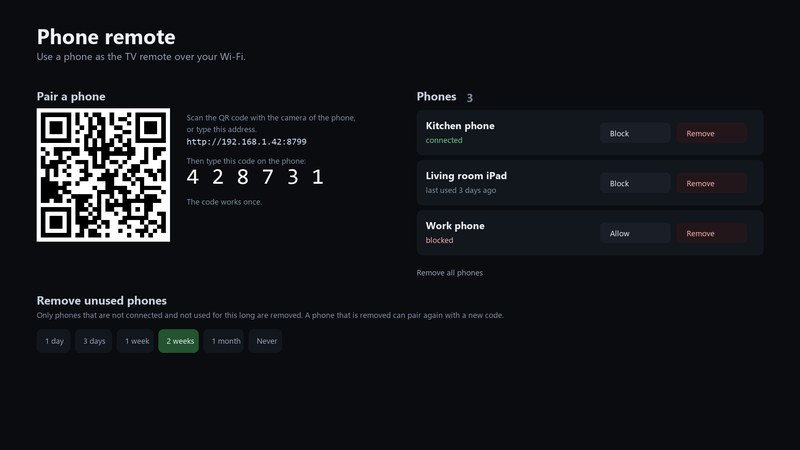
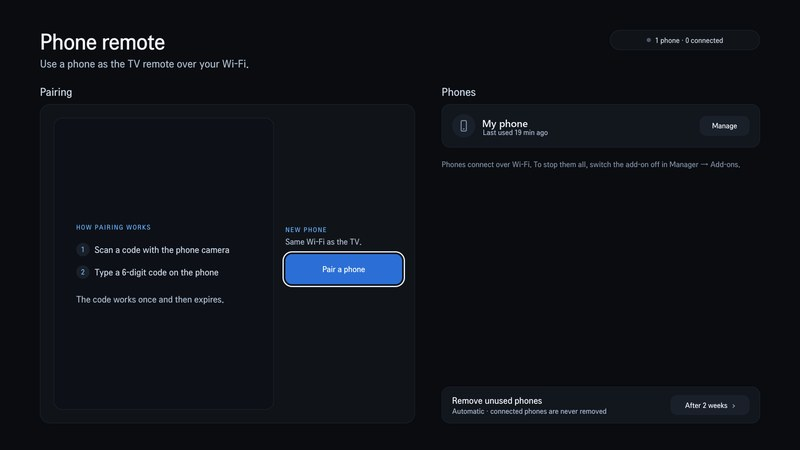
Phone remote: the add-on's picture shows the TV page as it is now; docs and a test cleaned up
- preview.jpg (the picture on the Add-ons screen) is the current TV page, with the
  setting row for unused phones, taken on a TV; the phone's name and address are masked.
- docs/phone-remote.md: the choice is called Never in the picker.
- devicename.test.js uses documentation addresses (192.0.2.0/24, 02:00:5E) instead
  of a real network's.

diff --git a/tools/test/devicename.test.js b/tools/test/devicename.test.js
@@ -22,7 +22,7 @@ run(async () => {
     'nothing, wlan0, localhost and a one-letter name are not names'
   );
   ok(
-    c('02:D5:D6:2B:08:32') === '' && c('02-d5-d6-2b-08-32') === '' && c('10.100.102.28') === '',
+    c('02:00:5E:10:00:01') === '' && c('02-00-5e-10-00-01') === '' && c('192.0.2.28') === '',
     'a MAC address and an IP address are not names'
   );
   ok(

diff --git a/docs/phone-remote.md b/docs/phone-remote.md
@@ -126,7 +126,7 @@ is accurate to about a minute.
 
 **Remove unused phones** is a security setting: a phone that was lost, sold or forgotten would otherwise be able to control the TV for ever. The
 service checks when it starts and every hour; a phone that is connected is never removed, and one that is removed can pair again with a new code.
-Turning it off (**Never remove**) asks first, and the screen says what it means: a lost phone keeps the remote until someone removes it by hand.
+Choosing **Never** turns it off and asks first, and the screen says what it means: a lost phone keeps the remote until someone removes it by hand.
 
 ## Turning the TV on
 
